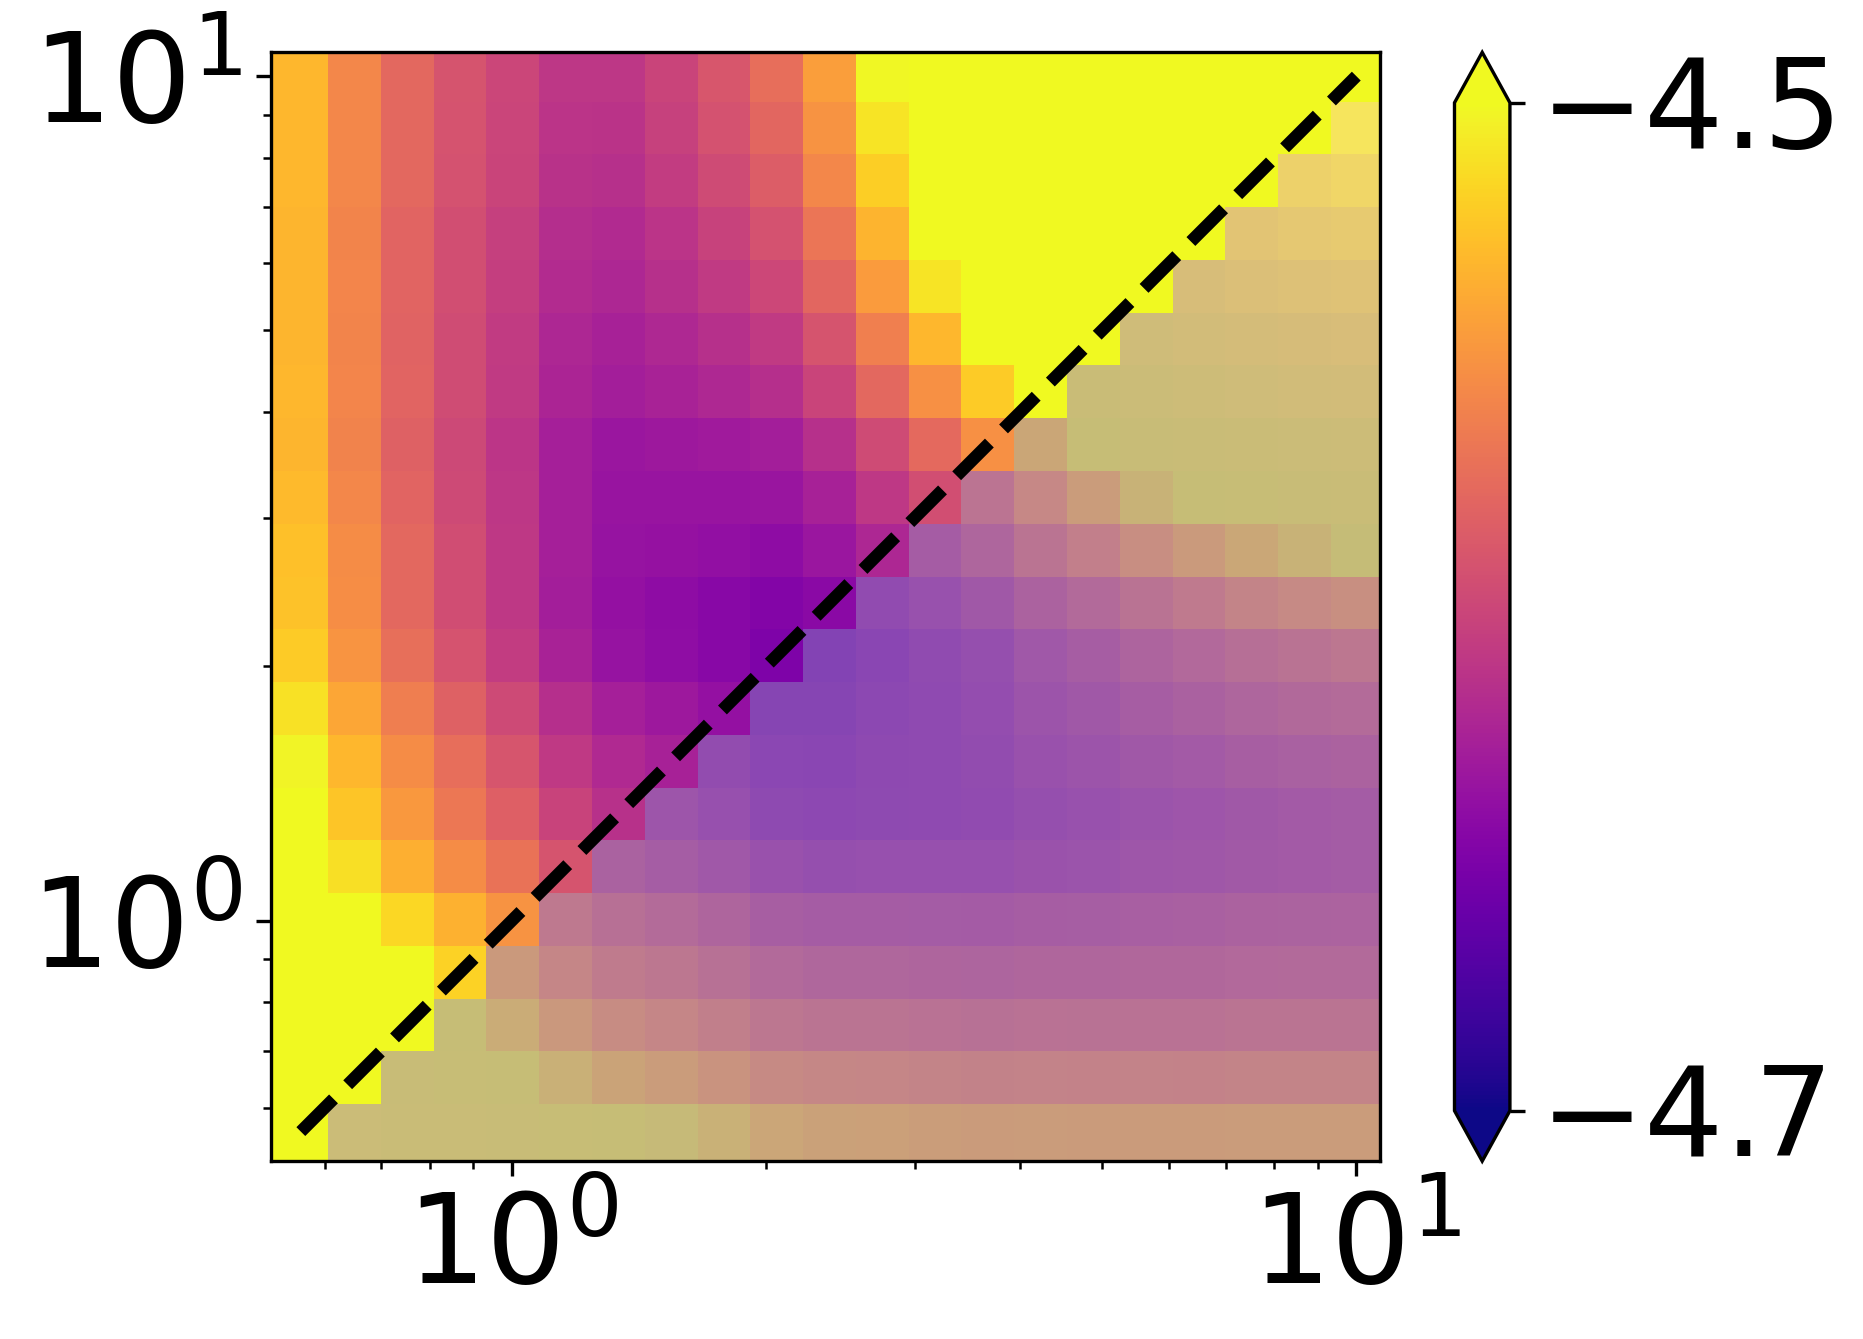
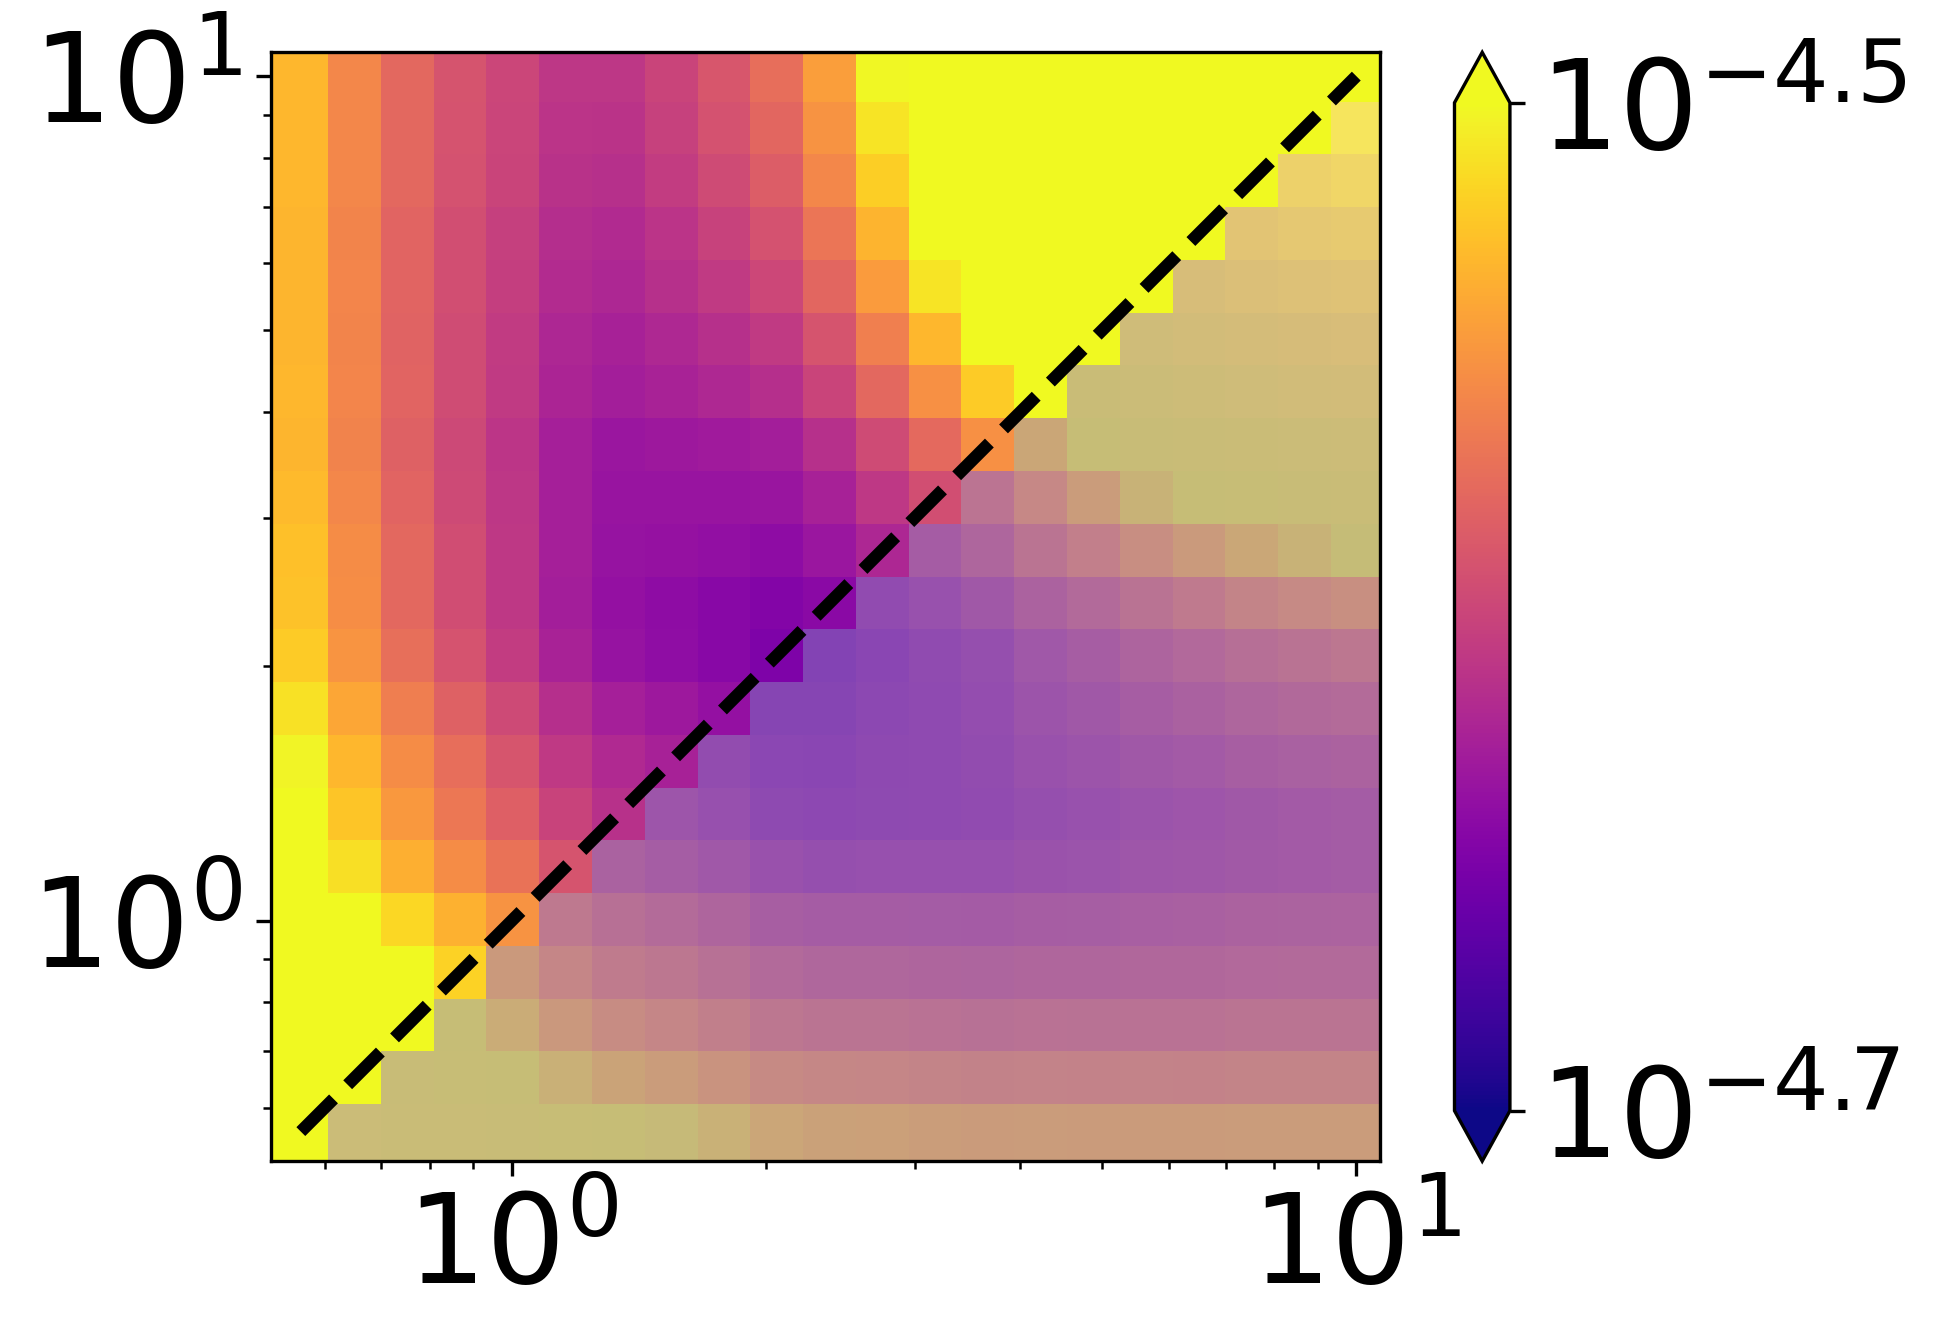
fixed heatmap axes

Changed region(s): [[0.0311, 0.0, 0.9962, 0.9798], [0.2179, 0.8574, 0.3425, 0.9798]]

diff --git a/Simulations/2D/HeatMap/Plotting.py b/Simulations/2D/HeatMap/Plotting.py
@@ -351,7 +351,7 @@ ticks = [vmin,vmax]#[2e-5, 3e-5]
 cbar.set_ticks(ticks)
 
 # LaTeX-style labels (what is displayed)
-cbar.set_ticklabels([r'$-4.7$', r'$-4.5$'])
+cbar.set_ticklabels([r'$10^{-4.7}$', r'$10^{-4.5}$'])
 
 
 cbar.ax.tick_params(labelsize=30)
